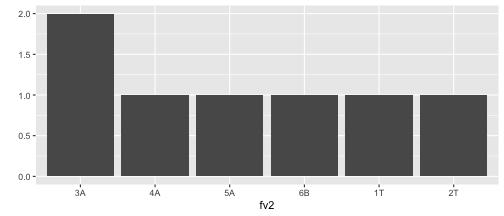
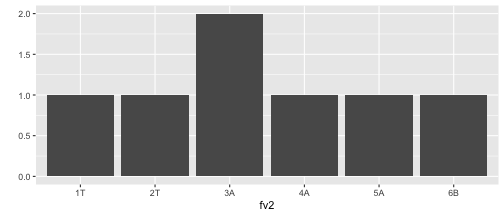
update slides

diff --git a/static/slides/l7_intro_tidyverse.html b/static/slides/l7_intro_tidyverse.html
@@ -220,6 +220,15 @@ first.tbl
 3    160     51
 ```
 
+
+```r
+class(first.tbl)
+```
+
+```
+[1] "tbl_df"     "tbl"        "data.frame"
+```
+
 ---
 
 # Convert an existing dataframe to a tibble
@@ -713,7 +722,7 @@ Levels: 1T 2T 3A 4A 5A 6B
 qplot(fv2, geom = "bar")
 ```
 
-![](l7_intro_tidyverse_files/figure-html/unnamed-chunk-34-1.png)&lt;!-- --&gt;
+![](l7_intro_tidyverse_files/figure-html/unnamed-chunk-35-1.png)&lt;!-- --&gt;
 
 
 ---
@@ -736,7 +745,7 @@ Levels: 3A 4A 5A 6B 1T 2T
 qplot(fv2, geom = "bar")
 ```
 
-![](l7_intro_tidyverse_files/figure-html/unnamed-chunk-35-1.png)&lt;!-- --&gt;
+![](l7_intro_tidyverse_files/figure-html/unnamed-chunk-36-1.png)&lt;!-- --&gt;
 
 ---
 
